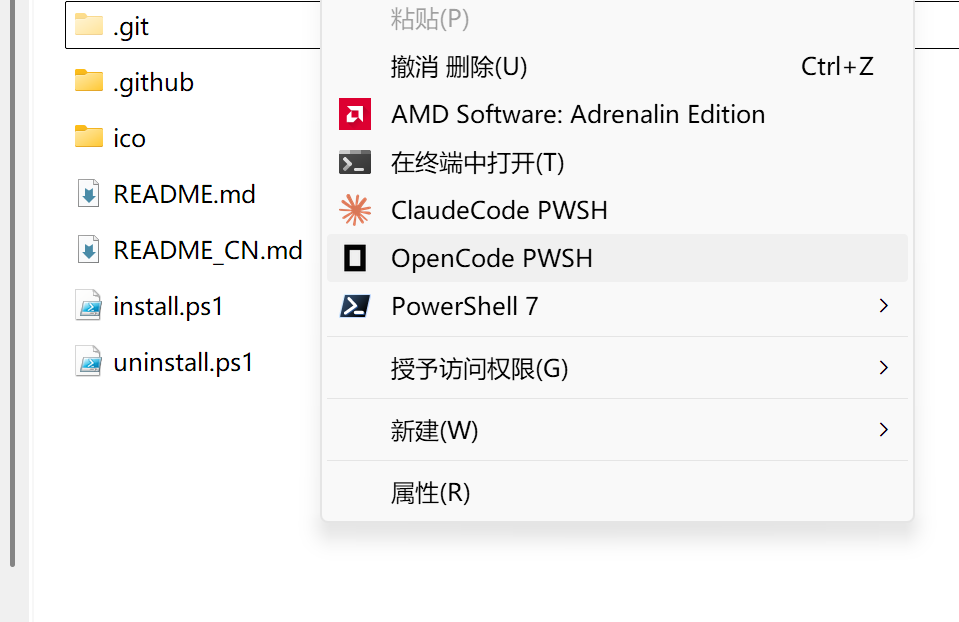
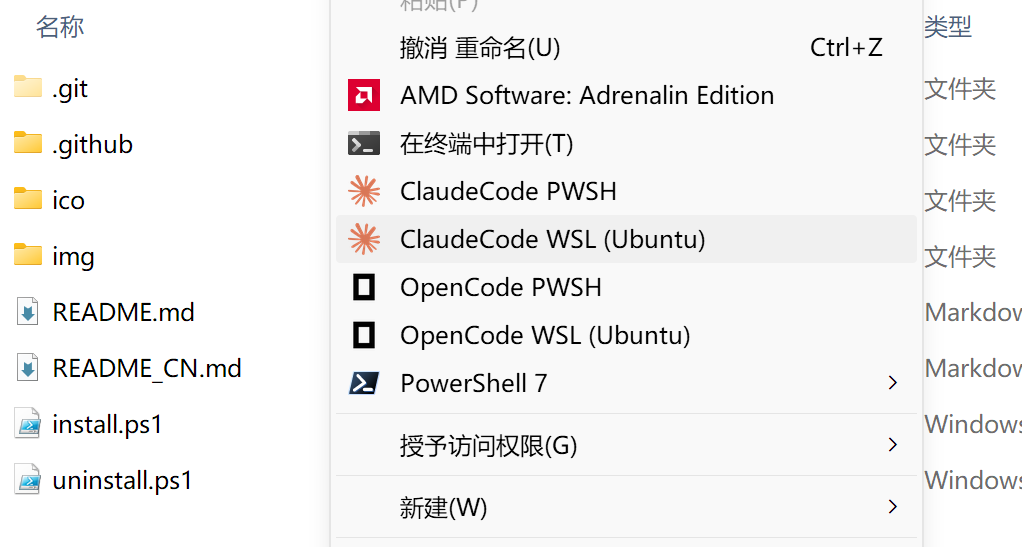
feat: add WSL support and selection menu for choosing items to register
- Detect WSL distros and tools installed in each distro via wsl --which
- Add unified selection menu to choose which items (Windows/WSL) to register
- Support comma-separated (1,3,5) and range (1-3) input for selection
- Dynamically clean up WSL registry entries on uninstall
- Update README with WSL support and selection menu documentation

diff --git a/README.md b/README.md
@@ -1,4 +1,4 @@
-# Coding Launcher —— Context Menu Launcher for ClaudeCode & OpenCode
+# Coding Launcher —— Context Menu Launcher for AI Coding CLI Tools
 
 <center>
 
@@ -7,6 +7,8 @@
 </center>
 
 Add "ClaudeCode PWSH", "CodexCli PWSH", "CopilotCli PWSH", "GeminiCli PWSH" and "OpenCode PWSH" entries to your Windows right-click context menu. Open any tool directly from any folder — no terminal, no `cd`, no manual commands.
+
+Supports launching tools from **Windows** or **WSL** (Windows Subsystem for Linux).
 
 <center>
 
@@ -33,21 +35,20 @@ Instead, simply **right-click any folder (or inside it) → select the tool you 
 | **Gemini CLI** | `npm i -g @anthropic/gemini-cli` |
 | **OpenCode** | `winget install SST.opencode` |
 
+All tools support both **Windows** and **WSL** environments.
+
 ## Requirements
 
 - Windows 10/11
 - PowerShell 7 (`pwsh.exe`) installed
+- WSL (optional) — for opening tools in Linux environment
 
 ## Installation
 
 1. Download all files from this repository to a local folder:
    - `install.ps1`
    - `uninstall.ps1`
-   - `claude.ico` / `claude-color.ico`
-   - `codex.ico` / `codex-color.ico`
-   - `copilot.ico` / `copilot-color.ico`
-   - `gemini.ico` / `gemini-color.ico`
-   - `opencode.ico`
+   - `ico/` folder (all icon files)
 
    **Or download and extract the latest release archive: [Releases](https://github.com/y-cyfor/Coding-Launcher/releases)**
 
@@ -57,15 +58,29 @@ Instead, simply **right-click any folder (or inside it) → select the tool you 
    - `[1]` Monochrome (default)
    - `[2]` Color
 
-4. The script will scan your system for installed tools. A summary will be displayed:
-   > Detected installed: ClaudeCode, OpenCode
-   > Not detected: CodexCli, CopilotCli, GeminiCli
-   >
-   > Only installed tools will be registered. Re-run this script after installing missing tools.
-   >
-   > Press any key to continue, or Ctrl+C to cancel ...
+4. The script will scan your system for installed tools (Windows + WSL). A summary will be displayed:
+   ```
+   Windows 已安装: ClaudeCode、OpenCode
+   Windows 未安装: CodexCli、CopilotCli、GeminiCli
 
-5. Press any key to continue. Only tools that are already installed on your system will be added to the context menu.
+   检测到 WSL 发行版: Ubuntu
+     Ubuntu 已安装: ClaudeCode、CodexCli
+     Ubuntu 未安装: CopilotCli、GeminiCli、OpenCode
+   ```
+
+5. A selection menu will appear. Choose which items to add:
+   ```
+   ══════════════════════════════════════════════════════
+     可用菜单项 / Available menu items:
+   ══════════════════════════════════════════════════════
+     [1] ClaudeCode        (Windows)
+     [2] OpenCode          (Windows)
+     [3] ClaudeCode WSL    (Ubuntu)
+     [4] CodexCli WSL      (Ubuntu)
+   ══════════════════════════════════════════════════════
+   ```
+
+   Enter numbers like `1,3,5` or ranges like `1-3`, or type `all` to select all (default).
 
 6. If a UAC prompt appears, click **Yes** to grant administrator privileges.
 
@@ -76,15 +91,17 @@ Instead, simply **right-click any folder (or inside it) → select the tool you 
 
 Both the **folder background** (right-click in empty space) and the **folder itself** (right-click on the folder icon) will show the menu entries.
 
+WSL menu entries will automatically convert Windows paths to WSL paths using `wslpath`.
+
 ## Uninstall
 
-Right-click `uninstall.ps1` → **"Run with PowerShell"** → confirm UAC prompt. This removes all registry entries and the icon directory.
+Right-click `uninstall.ps1` → **"Run with PowerShell"** → confirm UAC prompt. This removes all registry entries (including WSL variants) and the icon directory.
 
 ## Notes
 
 - If menu items don't appear immediately, restart Windows Explorer or log out and back in.
 - You can re-run `install.ps1` anytime to switch between monochrome and color icons, or to register newly installed tools.
-- The icon files must remain in the same directory as the scripts during installation. After installation, they can be safely deleted (icons are copied to a persistent location).
+- The `ico/` folder must remain in the same directory as the scripts during installation. After installation, it can be safely deleted (icons are copied to a persistent location).
 
 ## Tools
 

diff --git a/README_CN.md b/README_CN.md
@@ -1,4 +1,4 @@
-# Coding Launcher —— ClaudeCode & OpenCode 右键菜单启动器
+# Coding Launcher —— AI 编程 CLI 工具右键菜单启动器
 
 <center>
 
@@ -8,6 +8,8 @@
 
 
 在 Windows 右键菜单中添加 "ClaudeCode PWSH"、"CodexCli PWSH"、"CopilotCli PWSH"、"GeminiCli PWSH" 和 "OpenCode PWSH" 选项，从任意文件夹直接启动工具——无需打开终端、无需 `cd`、无需手动输入命令。
+
+支持从 **Windows** 或 **WSL**（Windows Subsystem for Linux）环境中启动工具。
 
 <center>
 
@@ -34,21 +36,20 @@
 | **Gemini CLI** | `npm i -g @anthropic/gemini-cli` |
 | **OpenCode** | `winget install SST.opencode` |
 
+所有工具均支持 **Windows** 和 **WSL** 环境。
+
 ## 环境要求
 
 - Windows 10/11
 - 已安装 PowerShell 7（`pwsh.exe`）
+- WSL（可选）—— 用于在 Linux 环境中打开工具
 
 ## 安装方法
 
 1. 将以下所有文件下载到同一个本地文件夹：
    - `install.ps1`
    - `uninstall.ps1`
-   - `claude.ico` / `claude-color.ico`
-   - `codex.ico` / `codex-color.ico`
-   - `copilot.ico` / `copilot-color.ico`
-   - `gemini.ico` / `gemini-color.ico`
-   - `opencode.ico`
+   - `ico/` 文件夹（所有图标文件）
 
    **或直接下载压缩包解压：[Releases](https://github.com/y-cyfor/Coding-Launcher/releases)**
 
@@ -58,15 +59,29 @@
    - `[1]` 黑白（默认）
    - `[2]` 彩色
 
-4. 脚本会扫描本地已安装的工具，并显示检测结果：
-   > 检查到本地已安装：ClaudeCode、OpenCode
-   > 未检测到：CodexCli、CopilotCli、GeminiCli
-   >
-   > 脚本将只为已安装的工具添加右键菜单。后续安装相应工具后可再次运行本脚本。
-   >
-   > 按任意键继续，取消请按 Ctrl+C ...
+4. 脚本会扫描本地已安装的工具（Windows + WSL），并显示检测结果：
+   ```
+   Windows 已安装: ClaudeCode、OpenCode
+   Windows 未安装: CodexCli、CopilotCli、GeminiCli
 
-5. 按任意键继续。只有已安装的工具才会被添加到右键菜单中。
+   检测到 WSL 发行版: Ubuntu
+     Ubuntu 已安装: ClaudeCode、CodexCli
+     Ubuntu 未安装: CopilotCli、GeminiCli、OpenCode
+   ```
+
+5. 弹出选择菜单，选择需要添加的项：
+   ```
+   ══════════════════════════════════════════════════════
+     可用菜单项 / Available menu items:
+   ══════════════════════════════════════════════════════
+     [1] ClaudeCode        (Windows)
+     [2] OpenCode          (Windows)
+     [3] ClaudeCode WSL    (Ubuntu)
+     [4] CodexCli WSL      (Ubuntu)
+   ══════════════════════════════════════════════════════
+   ```
+
+   输入编号如 `1,3,5` 或范围如 `1-3`，输入 `all` 全选（默认）。
 
 6. 如果弹出 UAC 权限提示，点击 **"是"** 授予管理员权限。
 
@@ -77,15 +92,17 @@
 
 **文件夹空白处右键**和**文件夹图标上右键**都会显示对应的菜单项。
 
+WSL 菜单项会通过 `wslpath` 自动将 Windows 路径转换为 WSL 路径。
+
 ## 卸载方法
 
-右键点击 `uninstall.ps1` → **"使用 PowerShell 运行"** → 确认 UAC 提示。这将移除所有注册表项和图标目录。
+右键点击 `uninstall.ps1` → **"使用 PowerShell 运行"** → 确认 UAC 提示。这将移除所有注册表项（包括 WSL 变体）和图标目录。
 
 ## 注意事项
 
 - 如果菜单项没有立即出现，请重启资源管理器或注销后重新登录。
 - 随时可以重新运行 `install.ps1` 切换黑白/彩色图标，或为后续新安装的工具注册菜单。
-- 安装期间图标文件必须与脚本放在同一目录。安装完成后，原始图标文件可以安全删除（图标已复制到持久化位置）。
+- 安装期间 `ico/` 文件夹必须与脚本放在同一目录。安装完成后，原始图标文件夹可以安全删除（图标已复制到持久化位置）。
 
 ## 工具
 
